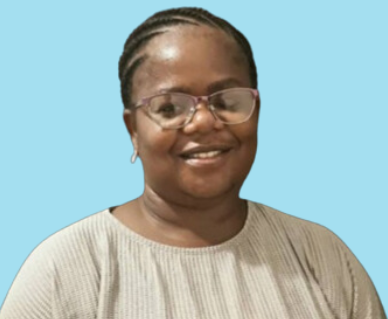
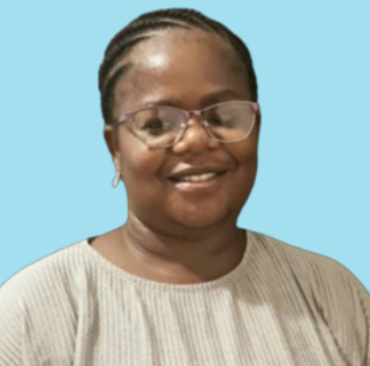
Resize images

Changed region(s): [[0.0, 0.0, 0.5054, 1.0], [0.5054, 0.0282, 1.0, 1.0], [0.4459, 0.79, 0.4757, 0.8464]]

diff --git a/index.html b/index.html
@@ -4,7 +4,7 @@
 <head>
   <meta charset="utf-8">
   <meta name="viewport" content="width=device-width, initial-scale=1">
-  <title>Mentor Education Bootstrap Theme</title>
+  <title>LANSHAN CHINESE ACADENY</title>
   <meta name="description" content="Free Bootstrap Theme by BootstrapMade.com">
   <meta name="keywords" content="free website templates, free bootstrap themes, free template, free bootstrap, free website template">
 
@@ -40,8 +40,7 @@
           <li><a href="#faculity-member">Team</a></li>
           <li><a href="#courses">Courses</a></li>
           <li><a href="#pricing">Pricing</a></li>
-          <li><a href="#" data-target="#login" data-toggle="modal">Sign in</a></li>
-          <li class="btn-trial"><a href="#footer">Free Trail</a></li>
+          <!-- <li><a href="#" data-target="#login" data-toggle="modal">Sign in</a></li> -->
         </ul>
       </div>
     </div>
@@ -110,12 +109,9 @@
             </div>
             <div class="intro-para text-center quote">
               <p class="big-text">Communication is the bridge to greater future</p>
-              <p class="small-text">Lorem ipsum dolor sit amet, consectetur adipisicing elit. Laudantium enim repellat sapiente quos architecto<br>Laudantium enim repellat sapiente quos architecto</p>
-              <a href="#footer" class="btn get-quote">GET A QUOTE</a>
-            </div>
-            <a href="#feature" class="mouse-hover">
-              <div class="mouse"></div>
-            </a>
+              <p class="small-text">Having clear Academy values helps us ensure that all 
+                our employees are working towards the same goals. </p>
+
           </div>
         </div>
       </div>
@@ -569,7 +565,7 @@
         <li><a href="#link"><i class="fa fa-dribbble fa-fw"></i></a></li>
         <li><a href="#link"><i class="fa fa-linkedin fa-fw"></i></a></li>
       </ul>
-      ©2016 Mentor Theme. All rights reserved
+      ©2024 Lucas Erkana. All rights reserved
       <div class="credits">
         <!--
           All the links in the footer should remain intact.
